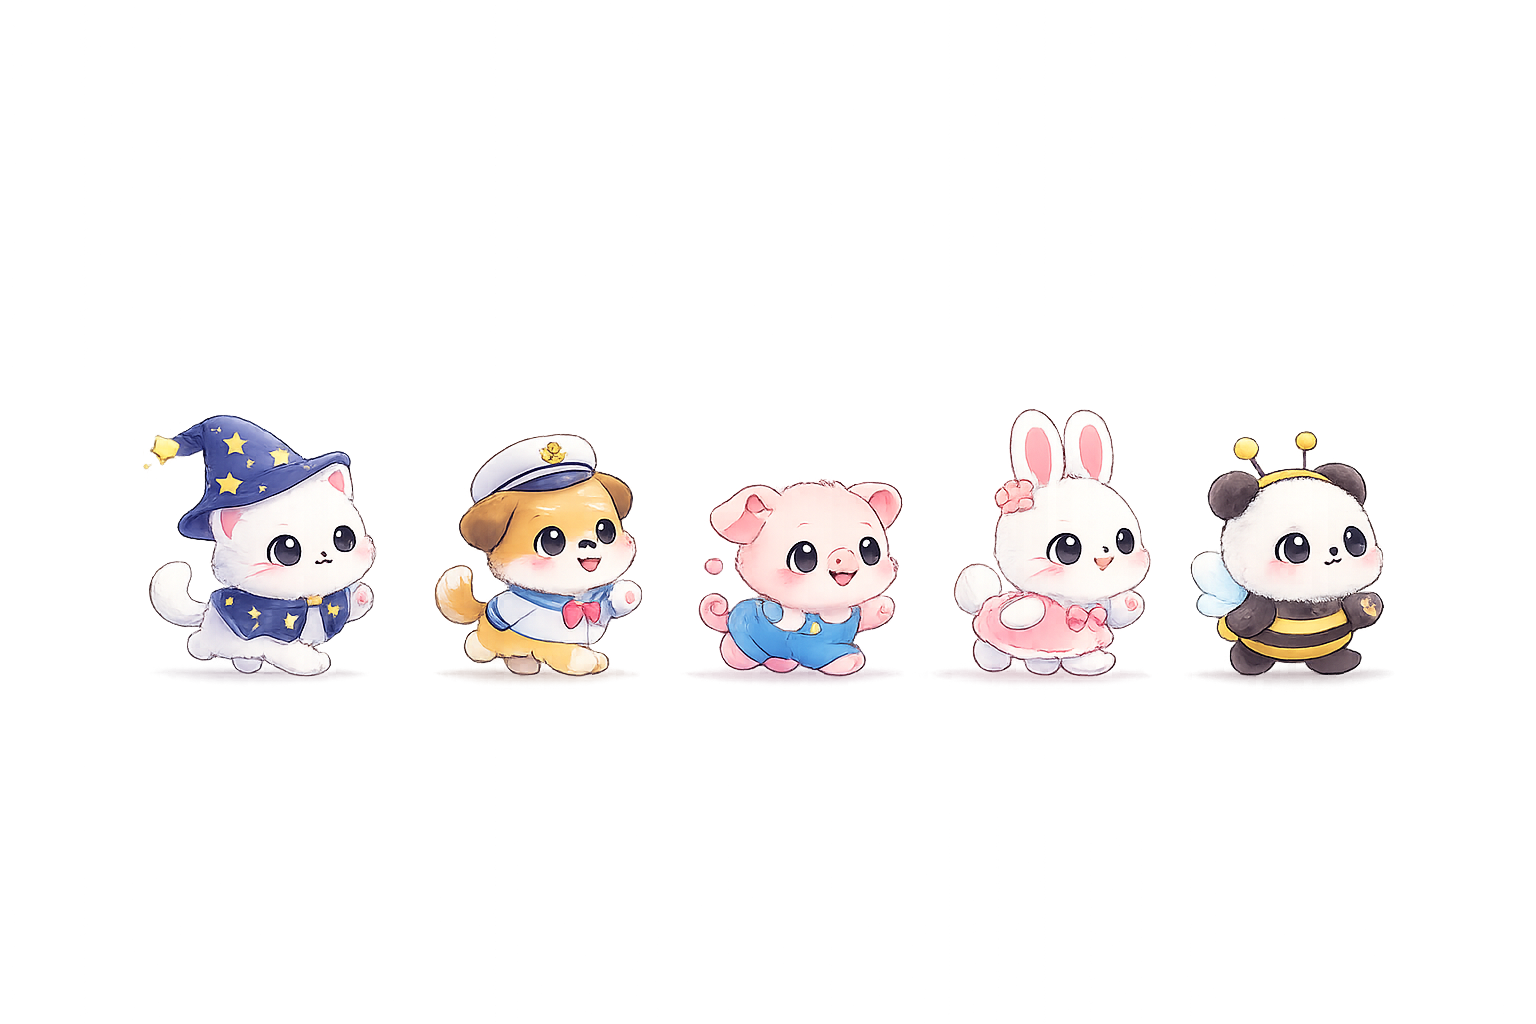
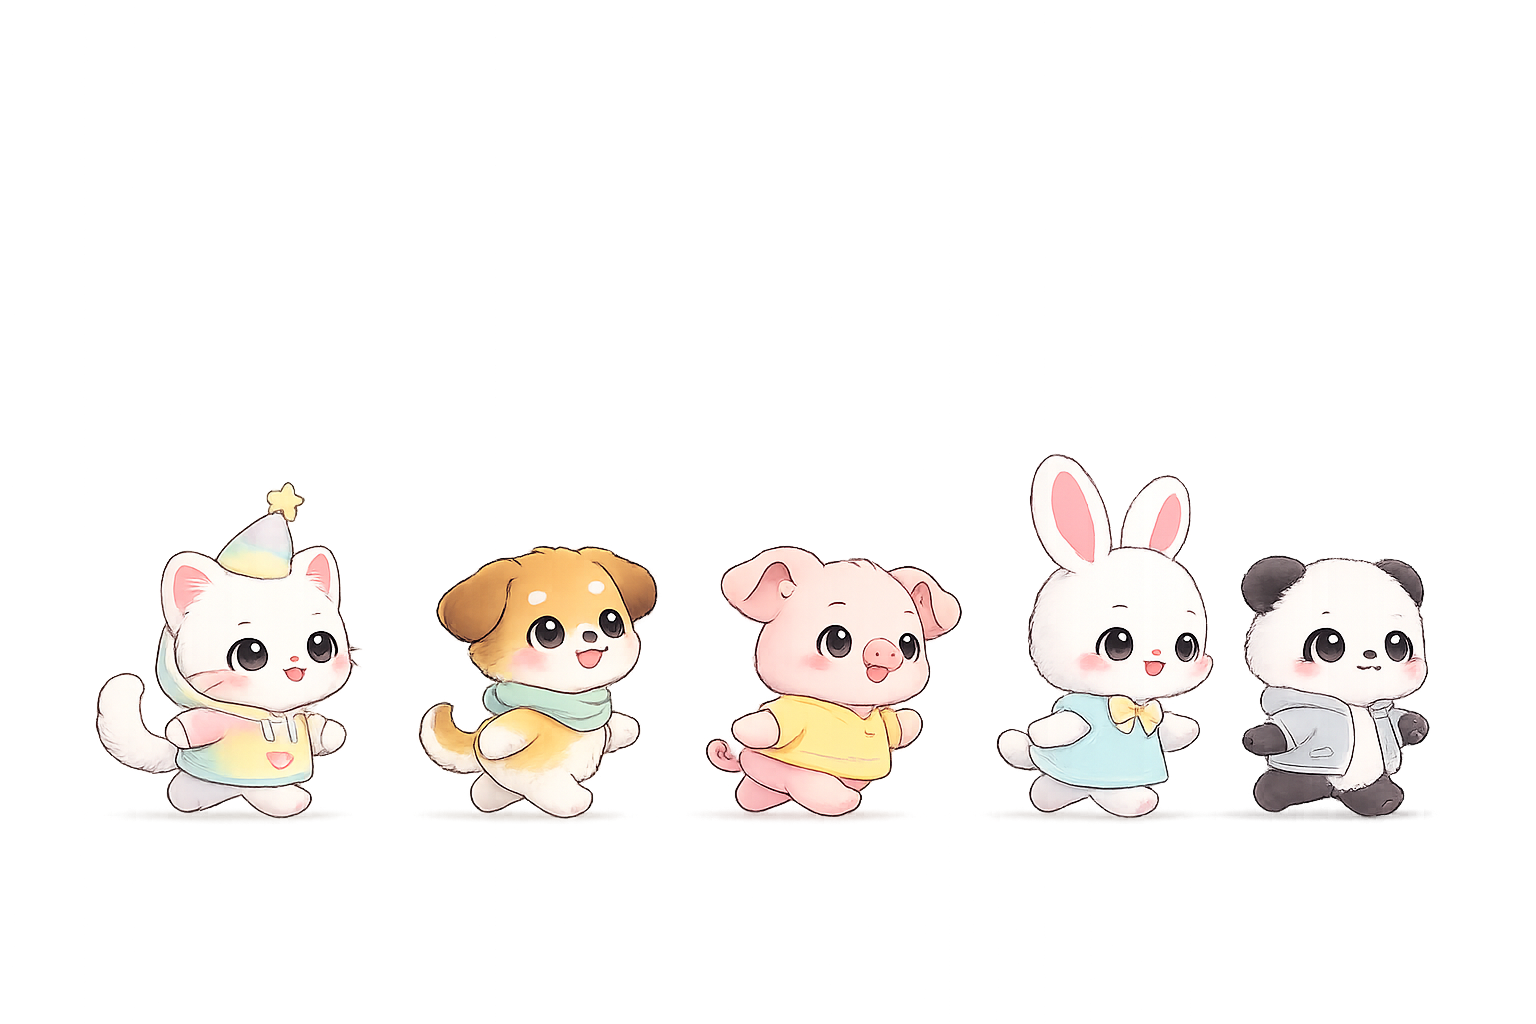
Replace parade characters image and move to above footer
- Replace petoxia-parade-characters.png with new illustration
- Move character parade from hero-about divider to above footer
- Update Petoxia Google Play store link

Changed region(s): [[0.2812, 0.4062, 0.9375, 0.8125], [0.0625, 0.4062, 0.25, 0.8125]]

diff --git a/petoxia/index.html b/petoxia/index.html
@@ -58,10 +58,10 @@
 
       <!-- Store Buttons -->
       <div class="app-detail-buttons">
-        <span class="btn-store" style="opacity:0.5; cursor:default;">
+        <a href="https://play.google.com/store/apps/details?id=com.pinkmandarin.petoxia" target="_blank" class="btn-store">
           <span class="btn-store-icon">&#9654;</span>
-          <span class="btn-store-text"><small data-ko="준비중" data-en="COMING SOON">준비중</small>Google Play</span>
-        </span>
+          <span class="btn-store-text"><small>GET IT ON</small>Google Play</span>
+        </a>
       </div>
 
       <!-- Screenshots -->

diff --git a/index.html b/index.html
@@ -65,11 +65,6 @@
     </div>
   </section>
 
-  <!-- Section Divider -->
-  <div class="section-parade">
-    <img src="assets/petoxia-parade-characters.png" alt="Petoxia Characters">
-  </div>
-
   <!-- About -->
   <section class="about" id="about">
     <div class="container">
@@ -231,6 +226,11 @@
       </div>
     </div>
   </section>
+
+  <!-- Character Parade -->
+  <div class="section-parade">
+    <img src="assets/petoxia-parade-characters.png" alt="Petoxia Characters">
+  </div>
 
   <!-- Footer -->
   <footer class="footer" id="contact" data-footer="full"></footer>

diff --git a/css/style.css b/css/style.css
@@ -308,7 +308,7 @@ img {
 /* --- Section Parade --- */
 .section-parade {
   text-align: center;
-  margin: -40px 0 -60px;
+  padding: 20px 0 0;
   opacity: 0.75;
   transition: opacity 0.3s;
 }
